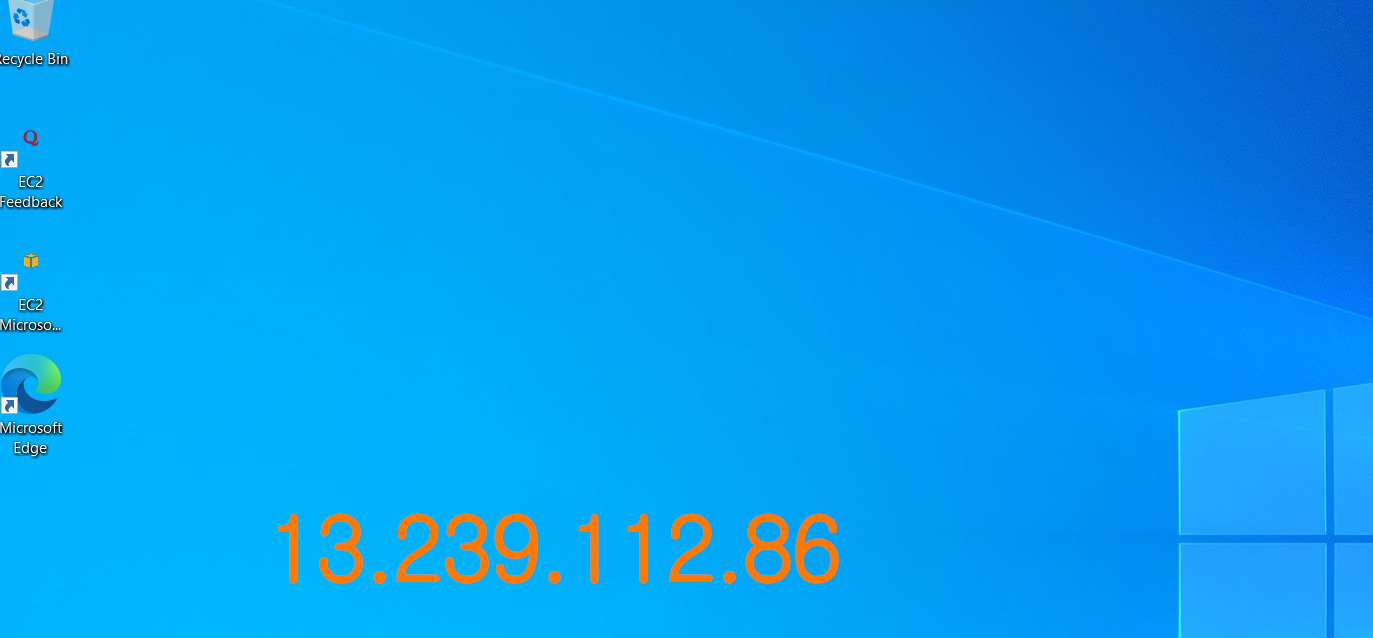
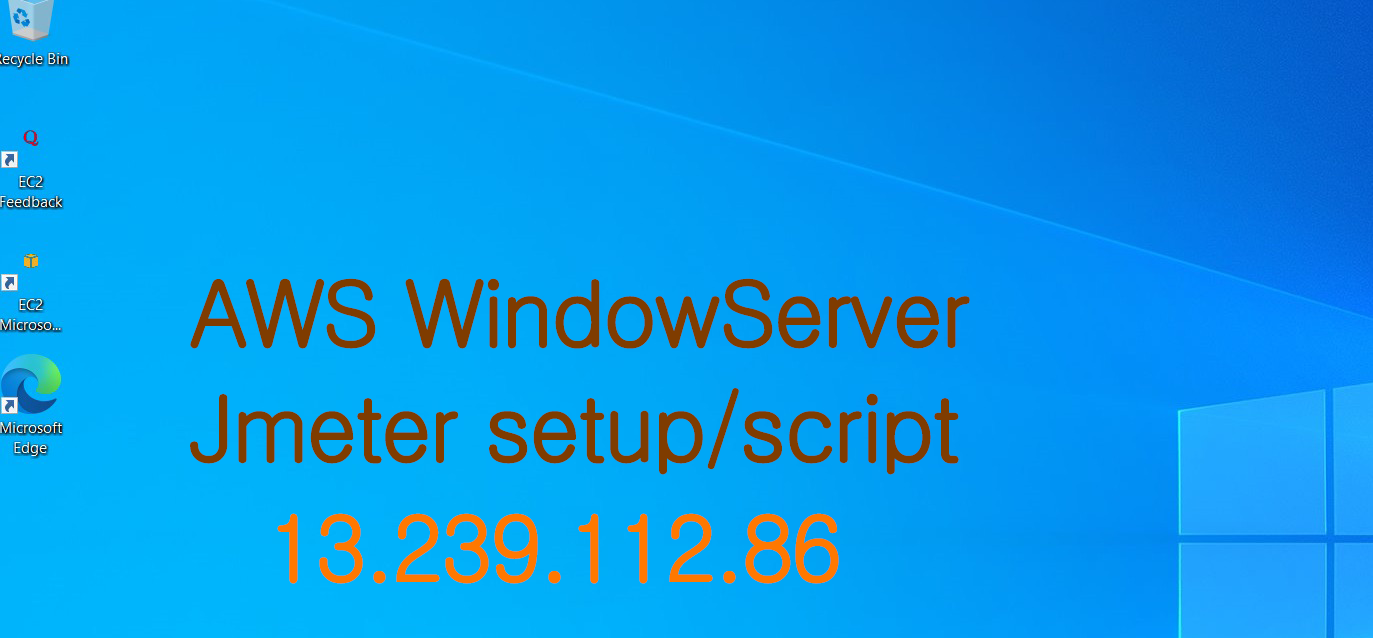
update windowserver and tonyillust yoga

Changed region(s): [[0.1224, 0.4169, 0.7036, 0.5658], [0.1224, 0.5956, 0.7036, 0.7445]]

diff --git a/_wiki/blog/2024/2024-04-22-aidocent.md b/_wiki/blog/2024/2024-04-22-aidocent.md
@@ -115,11 +115,15 @@ https://docs.google.com/document/d/16GFgABbbnH7RXgL56SXNu41xRspstgtVcy0TQxmwd-A/
 
 Day 1, day2, day 3, day 4, day 5, day 6
 {{site.data.alerts.details}}
+Day1
 1. Shared creds with freelancers
 2. Task assigned among the group
 3. AWS WindowServer instance
 4. Completed the testing pc on the server
-
+Day2
+1. Application Server
+2. API server
+3. Lib install and setup
 
 {{site.data.alerts.ended}}
 {% include taglogic.html %}
